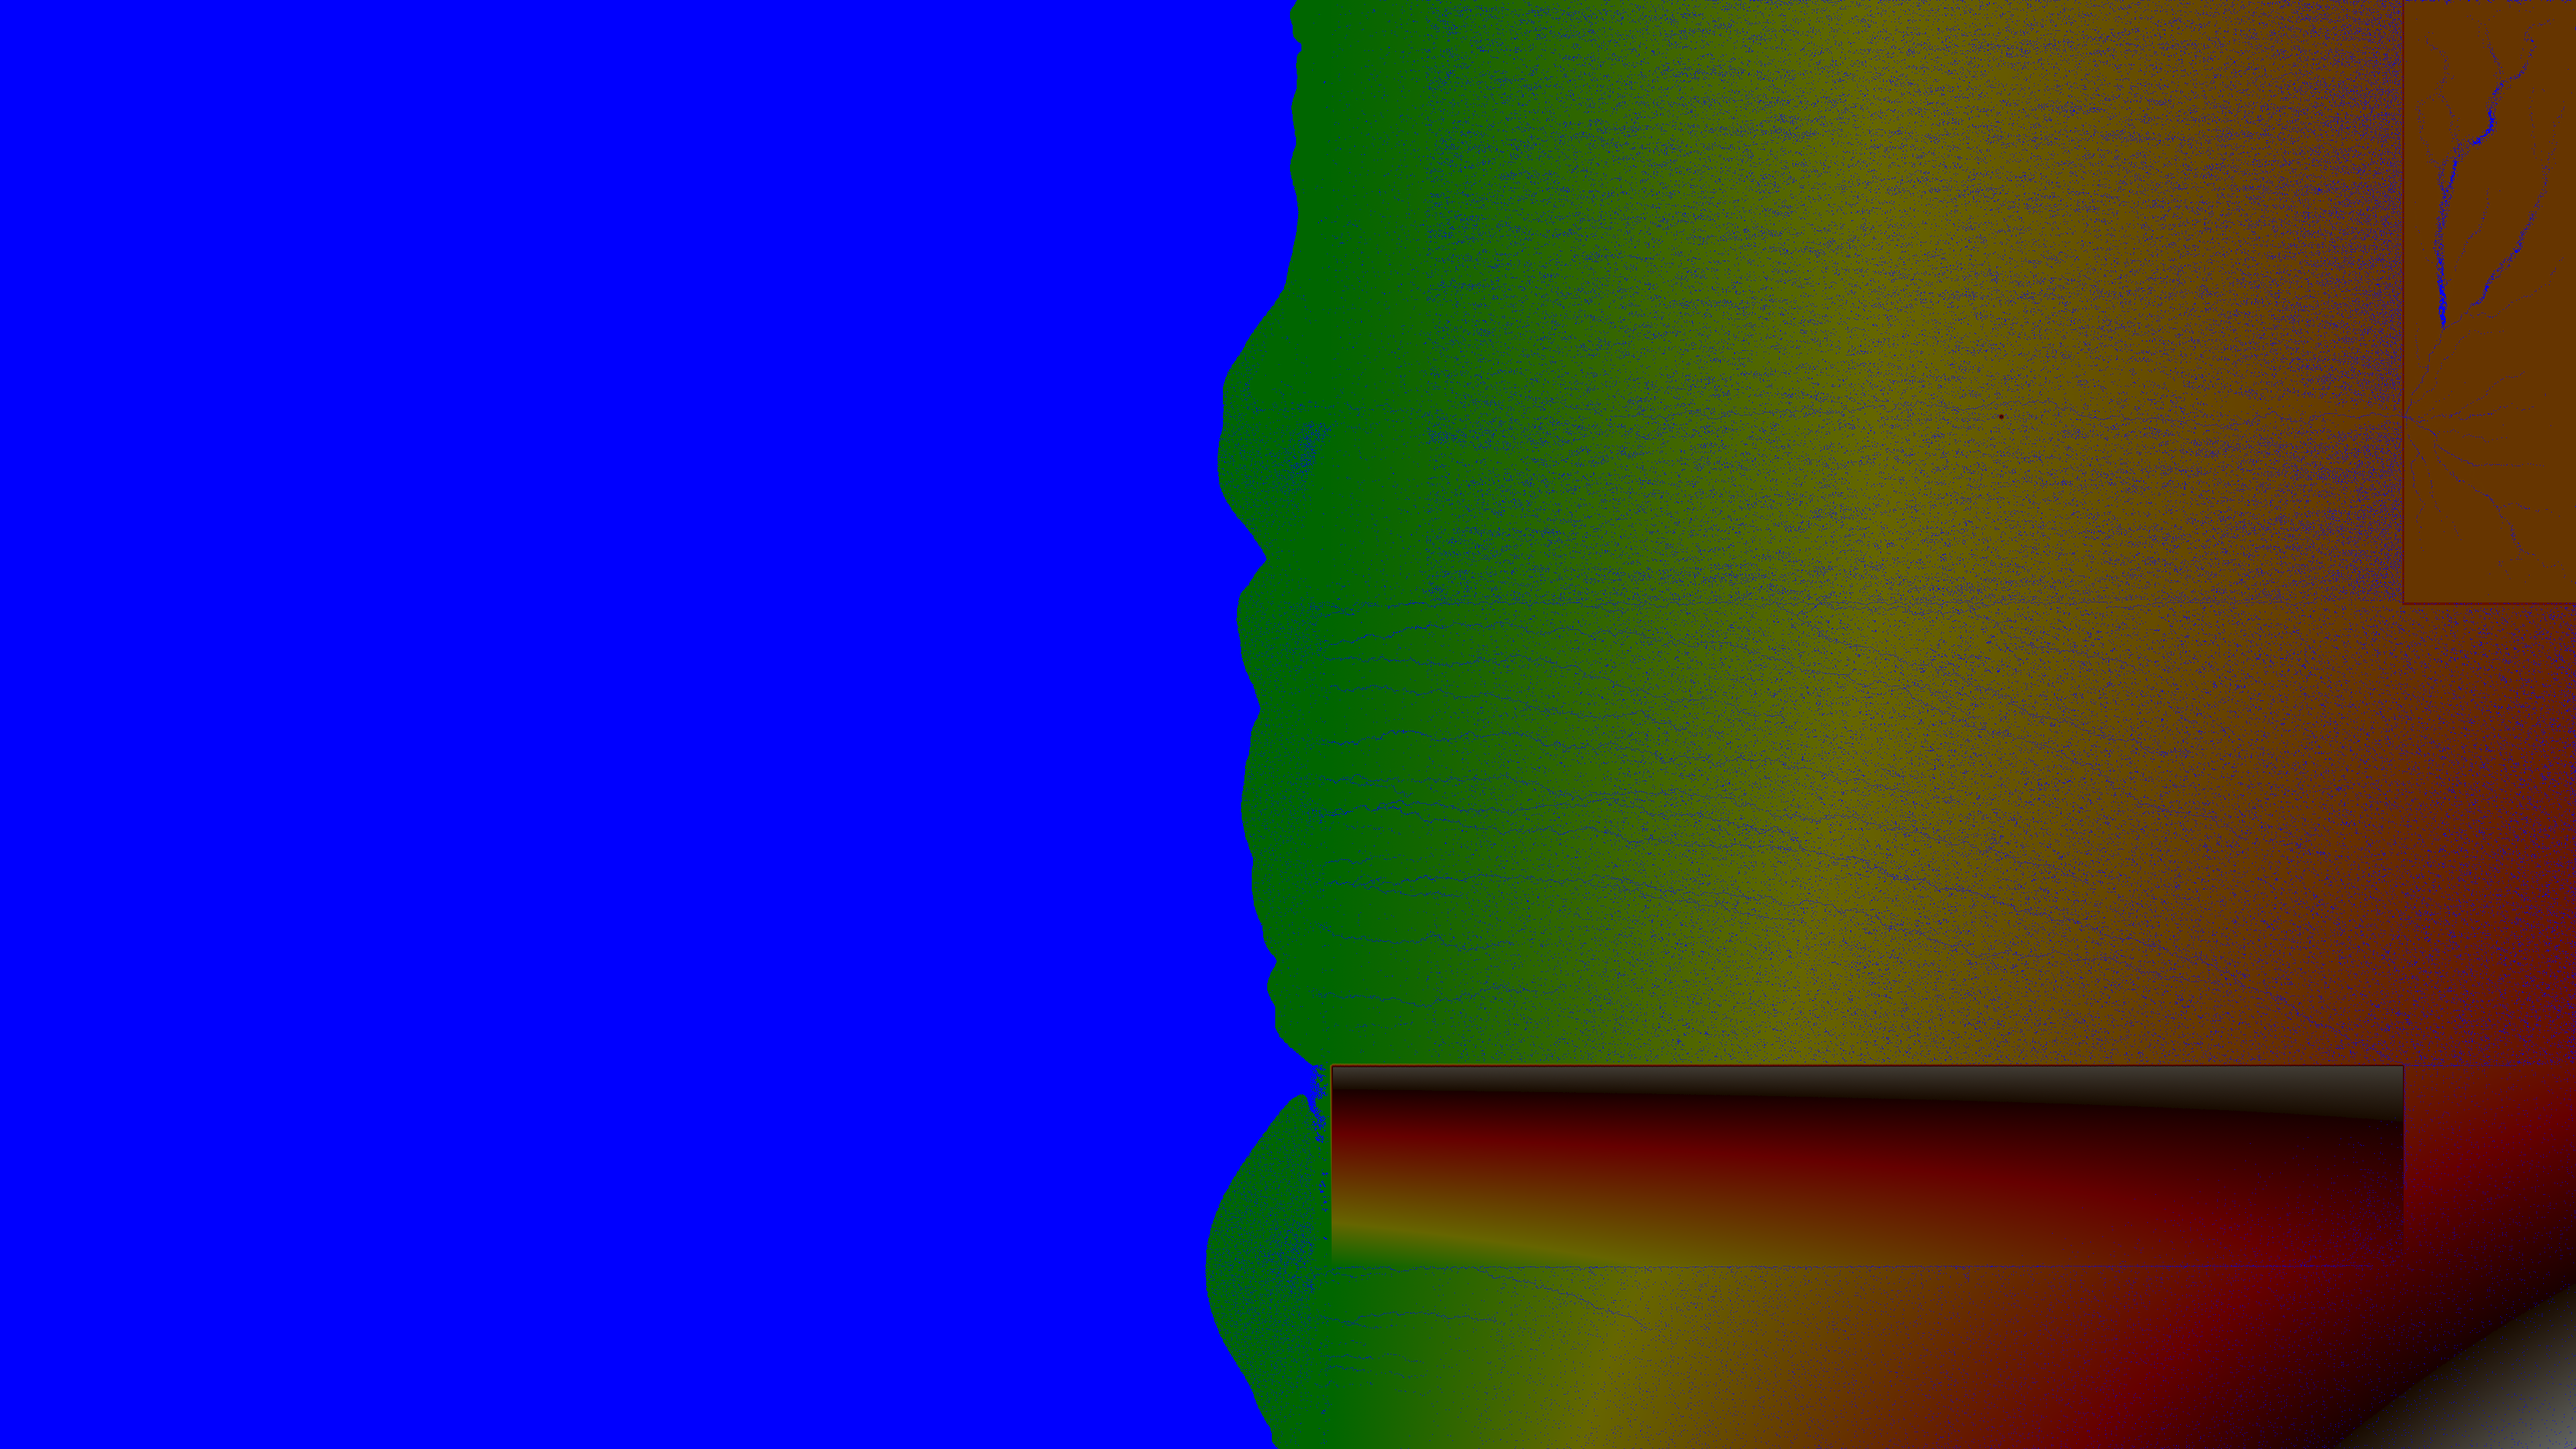
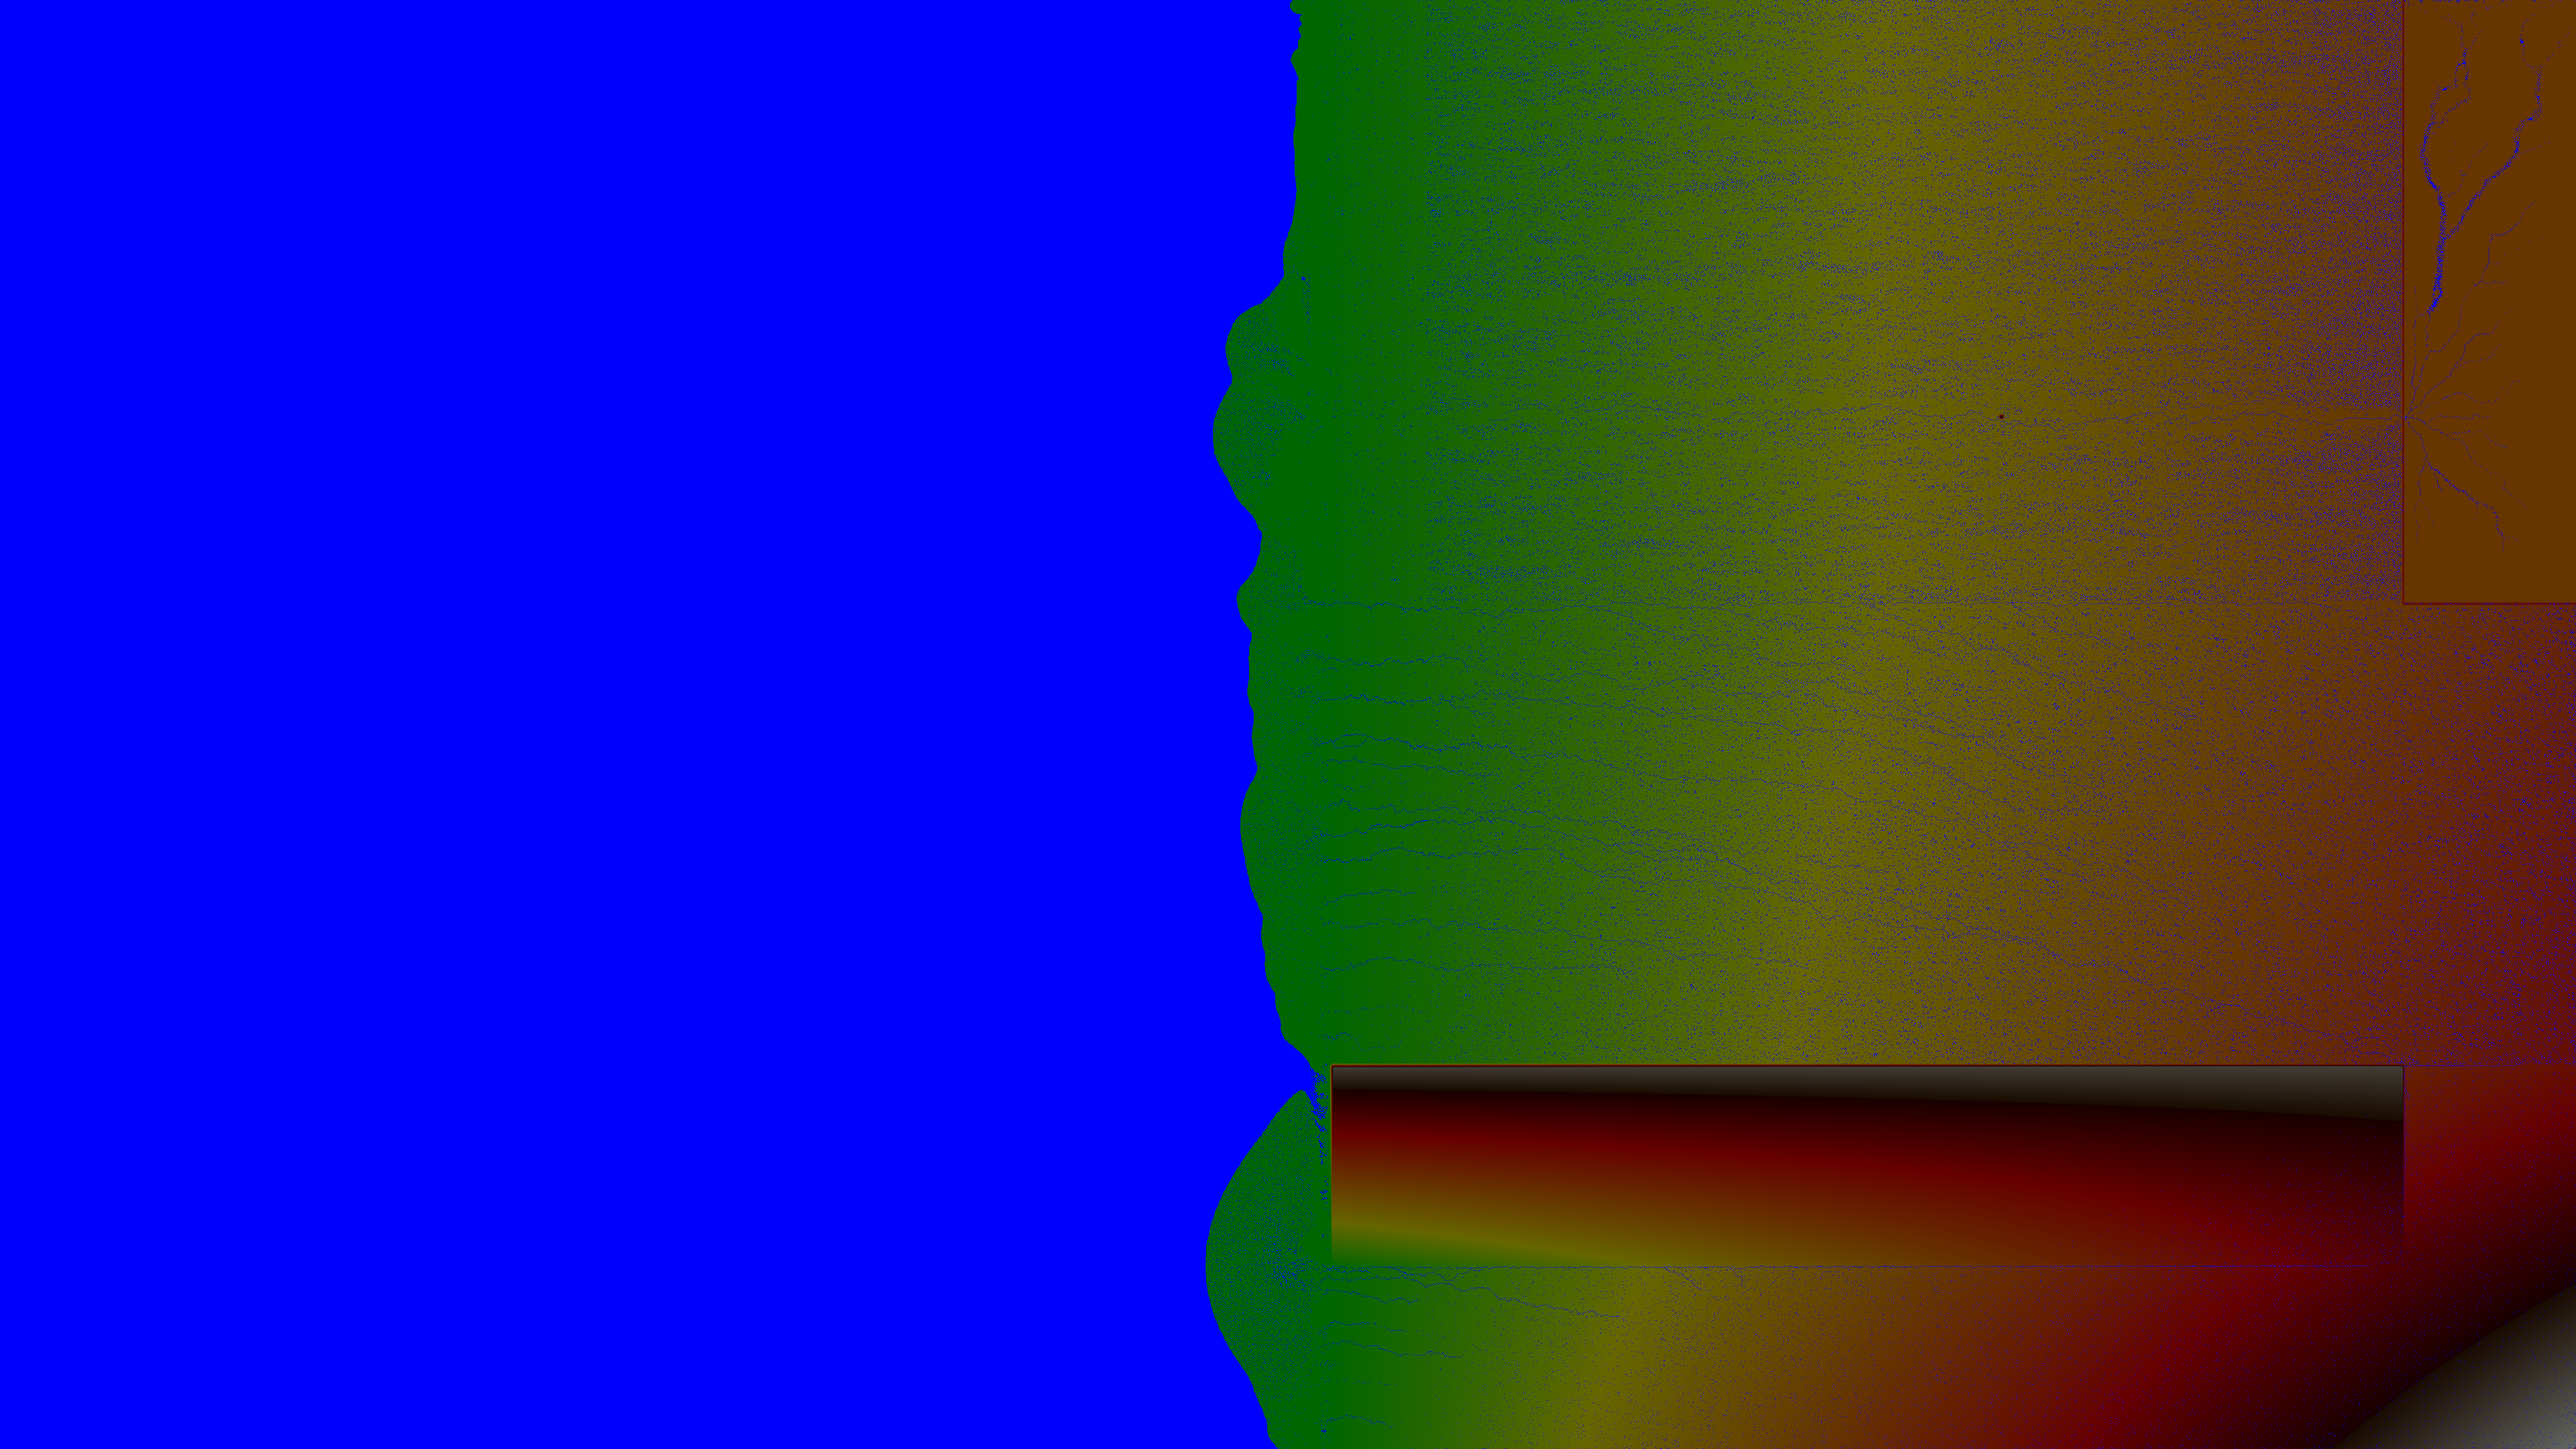
Confirm turning on sediment outflows doesn't lead to runaway erosion.

diff --git a/src/constants.rs b/src/constants.rs
@@ -102,7 +102,7 @@ pub const MAX_SLOPE: f32 = 1.00;
 pub const MAX_FLOW: f32 = (HEX_SIZE as f32) * MAX_SLOPE;
 // Current highest of all max elevation constants.
 pub const MAX_ELEVATION: f32 = SEA_LEVEL + SE_MOUNTAINS_MAX_ELEVATION;
-pub const LOG_ROUNDS: u32 = 10;
+pub const LOG_ROUNDS: u32 = 1;
 
 pub const BIG_VOLCANO_INITIAL_ELEVATION: f32 = HEX_SIZE * (5.0 + 6.0 * 4.0 + 12.0 * 3.0 + 18.0 * 2.0 + 24.0 * 1.0);
 pub const BIG_VOLCANO_X: usize = TOTAL_SEA_WIDTH + DELTA_SEED_WIDTH + (1_000.0 / HEX_FACTOR) as usize;

diff --git a/README.md b/README.md
@@ -103,6 +103,12 @@ study" and Edmonds & Slingerland 2010, "Significant effect of sediment cohesion 
 • [Nardin & Fagherazzi 2012](https://agupubs.onlinelibrary.wiley.com/doi/full/10.1029/2012GL051788) – wave influence on mouth-bar evolution.
 • Julien 2010, Erosion and Sedimentation, 2nd ed – sediment transport formulas for rivers.
 
+
+Experimental Notes
+------------------
+ westernmost land: 2074, westernmost land north: 2087, westernmost land south: 2129,
+ water remaining on land: 981308.94 ft-hexes, water remaining north: 381608.38 ft-hexes, water remaining central: 474125.72 ft-hexes,
+
 Performance optimization
 ------------------------
 Recommendations from GPT-o3. (Human's note: o3's analysis suggest performance gains are not large enough to make me want to prioritize.)
